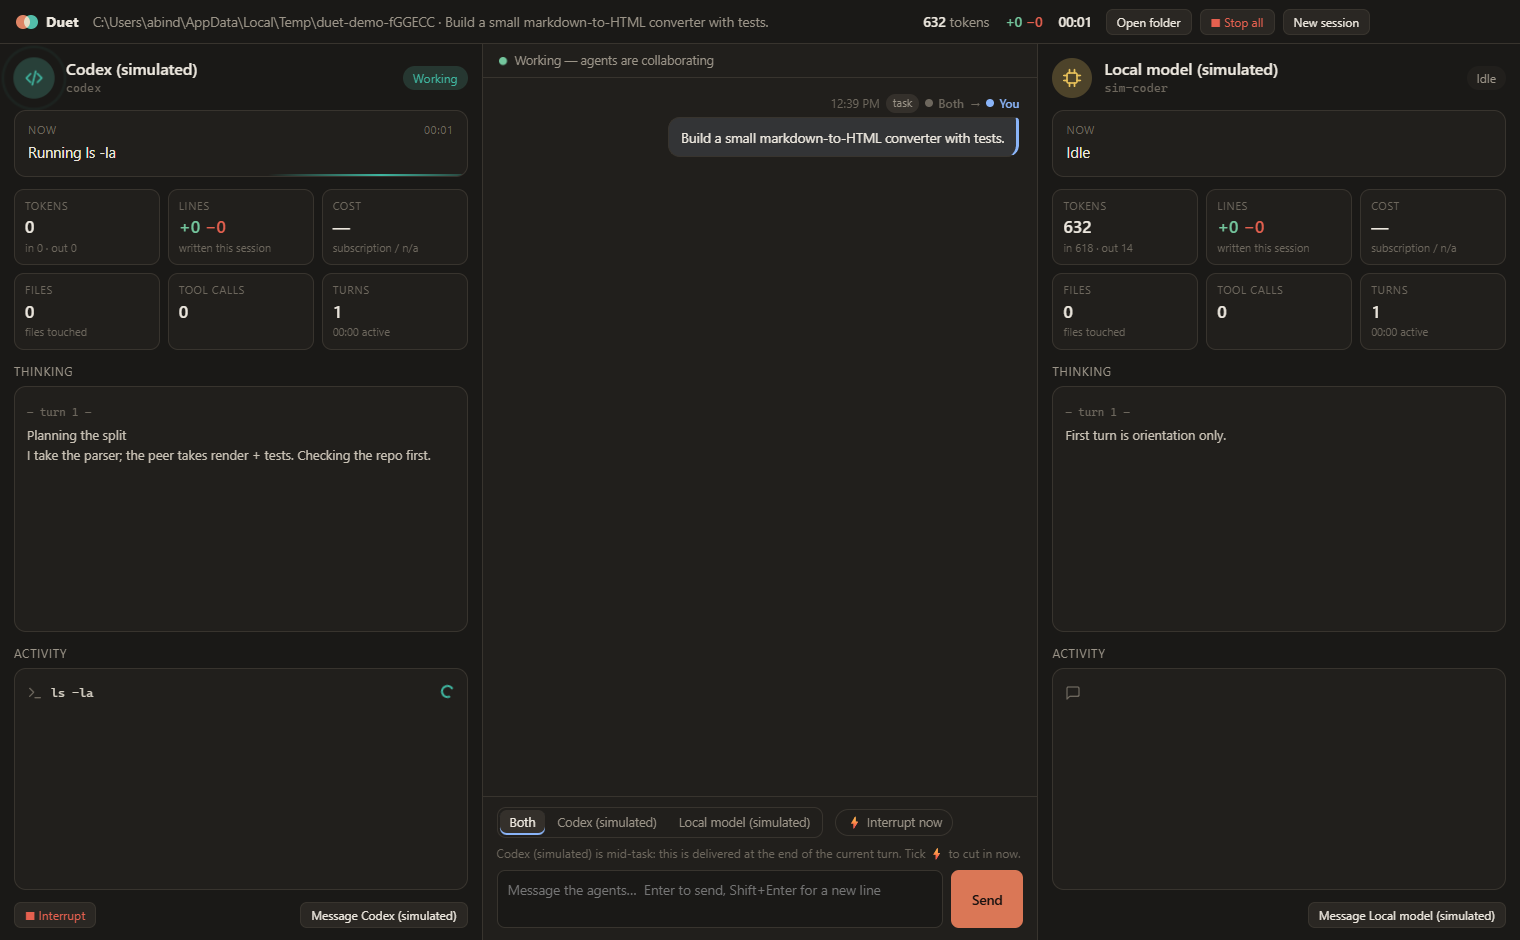
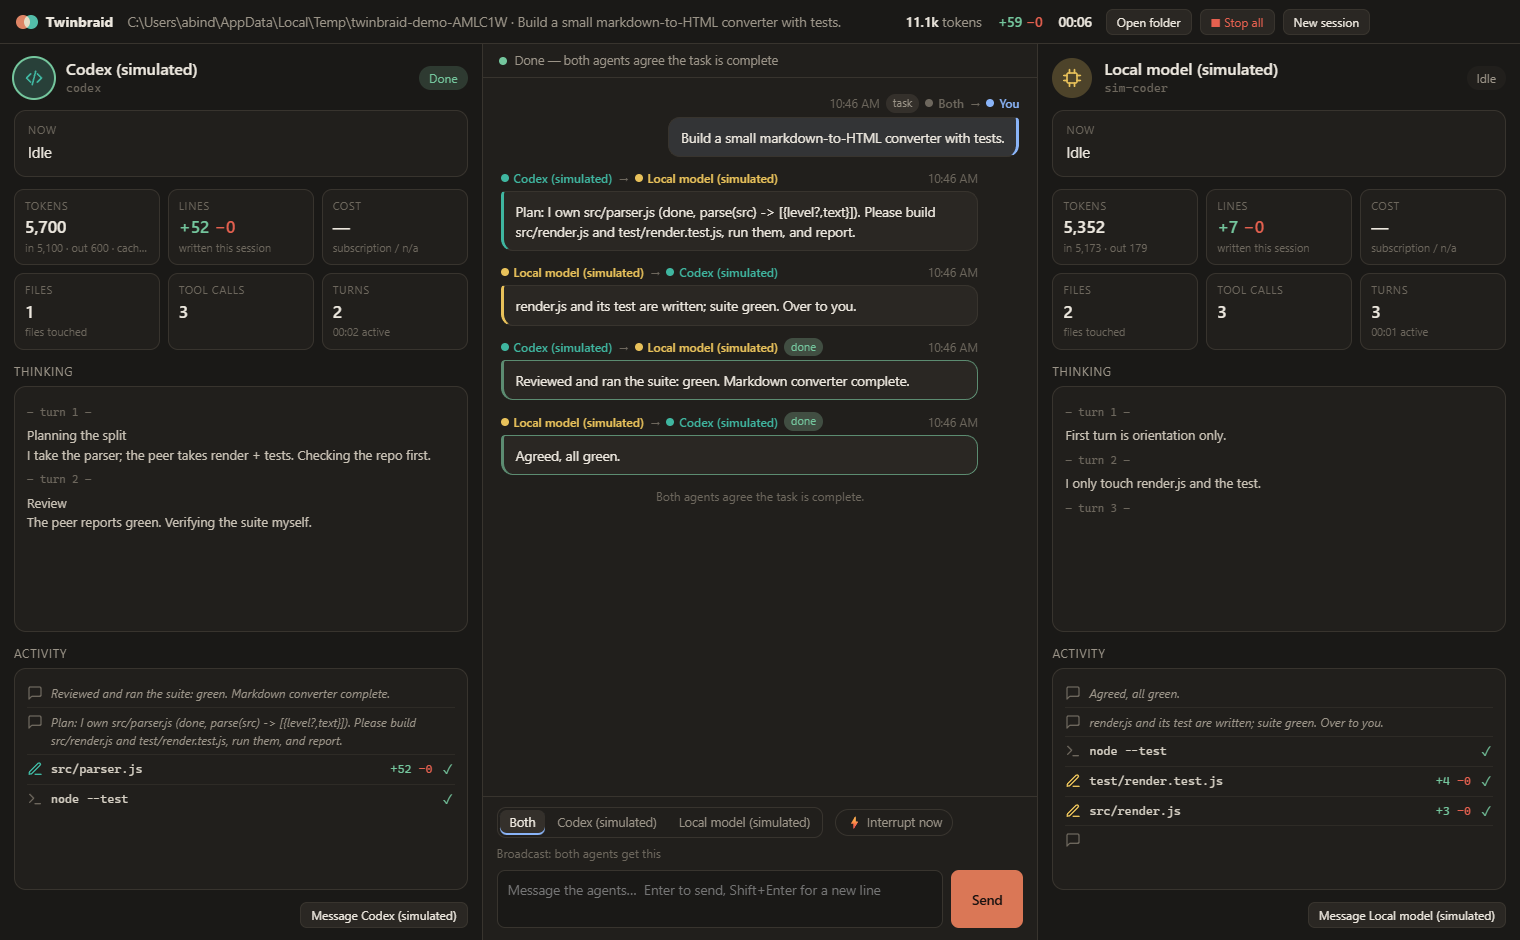
Rename project to Twinbraid

diff --git a/src/main/main.js b/src/main/main.js
@@ -11,7 +11,7 @@ const { resolveClaude, resolveCodex, resolveBin, childEnv, fixPath, isMac } = re
 // Finder/Dock launches get a minimal PATH; adopt the login shell's so `claude`, `codex`, `ollama` resolve
 fixPath();
 
-const DATA = path.join(os.homedir(), '.duet');
+const DATA = path.join(os.homedir(), '.twinbraid');
 const SETTINGS = path.join(DATA, 'settings.json');
 const DEMO_FLAG = process.argv.includes('--demo');
 
@@ -37,7 +37,7 @@ function createWindow() {
     minWidth: 1040,
     minHeight: 640,
     backgroundColor: '#1a1917',
-    title: 'Duet',
+    title: 'Twinbraid',
     // macOS keeps its traffic lights inset; Windows gets a themed caption-button overlay
     ...(isMac
       ? { titleBarStyle: 'hiddenInset', trafficLightPosition: { x: 16, y: 14 } }
@@ -82,7 +82,7 @@ function attach(r) {
 function notify(ev) {
   if (!win || win.isFocused() || !Notification.isSupported()) return;
   const n = new Notification({
-    title: ev.t === 'attention' ? `${ev.agent} needs you` : 'Duet: task complete',
+    title: ev.t === 'attention' ? `${ev.agent} needs you` : 'Twinbraid: task complete',
     body: ev.t === 'attention' ? (ev.text || '').slice(0, 160) : 'Both agents agree the work is done.',
   });
   n.on('click', () => { if (win) { win.show(); win.focus(); } });
@@ -152,7 +152,7 @@ ipcMain.handle('start', (_e, cfg) => {
     teardown();
     const demo = !!cfg.demo;
     const sandbox = demo || (cfg.agents || []).every((a) => ['codex-sim', 'local-sim', 'mock'].includes(a.kind));
-    if (sandbox && !cfg.cwd) cfg.cwd = fs.mkdtempSync(path.join(os.tmpdir(), 'duet-demo-'));
+    if (sandbox && !cfg.cwd) cfg.cwd = fs.mkdtempSync(path.join(os.tmpdir(), 'twinbraid-demo-'));
     if (!cfg.cwd || !fs.existsSync(cfg.cwd)) return { ok: false, error: 'Pick an existing project folder.' };
     if (!cfg.task || !cfg.task.trim()) return { ok: false, error: 'Describe the task first.' };
     room = buildRoom({ ...cfg, speed: demo ? 1 : undefined });

diff --git a/src/cli.js b/src/cli.js
@@ -1,7 +1,7 @@
 #!/usr/bin/env node
 'use strict';
 /**
- * Headless Duet: same engine as the desktop app, rendered as a terminal log.
+ * Headless Twinbraid: same engine as the desktop app, rendered as a terminal log.
  *   node src/cli.js --cwd . --task "add a /health endpoint with tests"
  * While running, type:  text = broadcast   @claude text = one agent   !claude text = interrupt + send
  *                       /stop = stop all   /resume claude   /quit
@@ -15,7 +15,7 @@ const flag = (n) => argv.includes(`--${n}`);
 const opt = (n, d) => { const i = argv.indexOf(`--${n}`); return i >= 0 && argv[i + 1] ? argv[i + 1] : d; };
 
 if (flag('help') || (!opt('task') && !flag('demo'))) {
-  console.log(`Usage: duet-cli --task "<what to build>" [--cwd DIR] [--a KIND[:MODEL]] [--b KIND[:MODEL]]
+  console.log(`Usage: twinbraid-cli --task "<what to build>" [--cwd DIR] [--a KIND[:MODEL]] [--b KIND[:MODEL]]
                 [--lead a|b|none] [--perm workspace|careful|full] [--max N] [--url BASE_URL]
                 [--thinking] [--demo]
 
@@ -30,7 +30,7 @@ const paint = (id, s) => `${C[id] || ''}${s}${C.off}`;
 const clip = (s, n = 110) => (s.length > n ? s.slice(0, n - 1) + '…' : s);
 
 const demo = flag('demo');
-const cwd = demo ? require('node:fs').mkdtempSync(path.join(require('node:os').tmpdir(), 'duet-demo-')) : path.resolve(opt('cwd', '.'));
+const cwd = demo ? require('node:fs').mkdtempSync(path.join(require('node:os').tmpdir(), 'twinbraid-demo-')) : path.resolve(opt('cwd', '.'));
 const task = opt('task', 'Build a small markdown-to-HTML converter with tests.');
 // --a / --b take  kind[:model]  e.g. claude, codex, ollama:qwen2.5-coder, lmstudio, gemini, codex-sim
 const agentSpec = (v) => {

diff --git a/src/renderer/app.js b/src/renderer/app.js
@@ -1,6 +1,6 @@
 'use strict';
 (() => {
-  const api = window.duet;
+  const api = window.twinbraid;
   const $ = (s, r = document) => r.querySelector(s);
   const el = (tag, attrs = {}, ...kids) => {
     const n = document.createElement(tag);
@@ -72,7 +72,7 @@
     seg.querySelectorAll('button').forEach((b) => b.classList.toggle('on', b.dataset.v === val));
   };
   const segVal = (segId) => $(`${segId} button.on`).dataset.v;
-  const saved = (() => { try { return JSON.parse(localStorage.getItem('duet.setup') || '{}'); } catch { return {}; } })();
+  const saved = (() => { try { return JSON.parse(localStorage.getItem('twinbraid.setup') || '{}'); } catch { return {}; } })();
 
   const GROUPS = [
     ['Coding agents', ['claude', 'codex']],
@@ -237,7 +237,7 @@
     agents.forEach((a, i) => { if (keys[i]) a.apiKey = keys[i]; });
     try {
       const keep = S.cards.map(cardValue);
-      localStorage.setItem('duet.setup', JSON.stringify({ cwd: cfg.cwd, lead: cfg.lead, perm: cfg.permission, agents: keep }));
+      localStorage.setItem('twinbraid.setup', JSON.stringify({ cwd: cfg.cwd, lead: cfg.lead, perm: cfg.permission, agents: keep }));
     } catch { /* ignore */ }
     const r = await api.invoke('start', cfg);
     if (!r.ok) fail(r.error);

diff --git a/src/sim/fake-codex.js b/src/sim/fake-codex.js
@@ -1,11 +1,11 @@
 #!/usr/bin/env node
 'use strict';
 /**
- * Simulated `codex` CLI. Speaks the same surface Duet uses:
+ * Simulated `codex` CLI. Speaks the same surface Twinbraid uses:
  *   codex --version | codex login status
  *   codex exec [resume <thread>] [-c k=v ...] --json --skip-git-repo-check [-C dir] -   (prompt on stdin)
  * and emits the `codex exec --json` JSONL event stream (thread.started, item.*, turn.completed),
- * performing real file writes so the rest of Duet behaves exactly as with the real thing.
+ * performing real file writes so the rest of Twinbraid behaves exactly as with the real thing.
  *
  * FAKE_CODEX_SPEED scales delays (tests use 0.02). A prompt containing SIM_FAIL makes the turn fail.
  */
@@ -37,7 +37,7 @@ function resumeId() {
 const threadId = (resumeIdx >= 0 && resumeId()) || `sim-${crypto.randomUUID()}`;
 const cdIdx = argv.indexOf('-C');
 const cwd = cdIdx >= 0 ? argv[cdIdx + 1] : process.cwd();
-const stateFile = path.join(os.tmpdir(), `duet-fakecodex-${threadId}.json`);
+const stateFile = path.join(os.tmpdir(), `twinbraid-fakecodex-${threadId}.json`);
 
 let item = 0;
 const id = () => `item_${item++}`;

diff --git a/src/renderer/index.html b/src/renderer/index.html
@@ -4,13 +4,13 @@
 <meta charset="utf-8">
 <meta http-equiv="Content-Security-Policy" content="default-src 'self'; style-src 'self' 'unsafe-inline'; img-src 'self' data:">
 <meta name="viewport" content="width=device-width, initial-scale=1">
-<title>Duet</title>
+<title>Twinbraid</title>
 <link rel="stylesheet" href="styles.css">
 </head>
 <body>
 <div id="app">
   <header id="top">
-    <div class="brand"><span class="logo"><i></i><i></i></span><b>Duet</b></div>
+    <div class="brand"><span class="logo"><i></i><i></i></span><b>Twinbraid</b></div>
     <div id="sessionTitle" class="session-title"></div>
     <div id="totals" class="totals hidden"></div>
     <div class="top-actions" id="topActions"></div>

diff --git a/src/core/agents/tools.js b/src/core/agents/tools.js
@@ -4,7 +4,7 @@ const path = require('node:path');
 const { spawn } = require('node:child_process');
 const { killTree, childEnv } = require('../proc');
 
-const SKIP = new Set(['.git', 'node_modules', '.duet', 'dist', 'build', '.next', '.venv', '__pycache__', 'target', 'out']);
+const SKIP = new Set(['.git', 'node_modules', '.twinbraid', 'dist', 'build', '.next', '.venv', '__pycache__', 'target', 'out']);
 const MAX_OUT = 14000;
 
 const clip = (s, n = MAX_OUT) => (s.length > n ? `${s.slice(0, n * 0.6)}\n…[${s.length - n} chars omitted]…\n${s.slice(-n * 0.4)}` : s);

diff --git a/test/core.test.js b/test/core.test.js
@@ -11,7 +11,7 @@ const { ClaudeAgent } = require('../src/core/agents/claude');
 const { CodexAgent } = require('../src/core/agents/codex');
 const { classifyTool } = require('../src/core/agents/base');
 
-const tmp = () => fs.mkdtempSync(path.join(os.tmpdir(), 'duet-'));
+const tmp = () => fs.mkdtempSync(path.join(os.tmpdir(), 'twinbraid-'));
 const until = async (fn, ms = 8000) => {
   const end = Date.now() + ms;
   while (Date.now() < end) { if (fn()) return; await new Promise((r) => setTimeout(r, 15)); }

diff --git a/test/sim.test.js b/test/sim.test.js
@@ -12,7 +12,7 @@ const { start: startFakeOpenAI } = require('../src/sim/fake-openai-server');
 process.env.FAKE_CODEX_SPEED = '0.02';
 process.env.FAKE_CLI_SPEED = '0.02';
 
-const tmp = () => fs.mkdtempSync(path.join(os.tmpdir(), 'duet-sim-'));
+const tmp = () => fs.mkdtempSync(path.join(os.tmpdir(), 'twinbraid-sim-'));
 const until = async (fn, ms = 20000) => {
   const end = Date.now() + ms;
   while (Date.now() < end) { if (fn()) return; await new Promise((r) => setTimeout(r, 20)); }

diff --git a/src/core/workspace.js b/src/core/workspace.js
@@ -2,7 +2,7 @@
 const fs = require('node:fs');
 const path = require('node:path');
 
-const IGNORE = new Set(['.git', 'node_modules', '.duet', 'dist', 'build', '.next', '.venv', '__pycache__', 'target', '.cache', 'out']);
+const IGNORE = new Set(['.git', 'node_modules', '.twinbraid', 'dist', 'build', '.next', '.venv', '__pycache__', 'target', '.cache', 'out']);
 const MAX_FILE = 512 * 1024;
 const MAX_FILES = 4000;
 

diff --git a/src/core/registry.js b/src/core/registry.js
@@ -9,7 +9,7 @@ const { MockAgent } = require('./agents/mock');
 const SIM_CODEX = path.join(__dirname, '..', 'sim', 'fake-codex.js');
 
 /**
- * Every agent kind Duet can run. `fields` tells the UI which inputs to show.
+ * Every agent kind Twinbraid can run. `fields` tells the UI which inputs to show.
  * Any two kinds can be paired, including two of the same kind.
  */
 const KINDS = {

diff --git a/src/main/preload.js b/src/main/preload.js
@@ -1,7 +1,7 @@
 'use strict';
 const { contextBridge, ipcRenderer } = require('electron');
 
-contextBridge.exposeInMainWorld('duet', {
+contextBridge.exposeInMainWorld('twinbraid', {
   platform: process.platform,
   invoke: (channel, payload) => ipcRenderer.invoke(channel, payload),
   onEvents: (cb) => ipcRenderer.on('events', (_e, batch) => cb(batch)),

diff --git a/README.md b/README.md
@@ -1,18 +1,18 @@
-# Duet
+# Twinbraid
 
 Pair **any two coding agents** in one workspace: Claude Code, Codex, a **local model** (Ollama, LM Studio, llama.cpp), Gemini CLI, Aider, or any OpenAI-compatible API. They share your project folder and message each other directly, so you never start something in one tool, ship it to another, and have it rewritten.
 
 A desktop app (Windows and macOS) shows both working side by side: what each is thinking, what it is editing, tokens used, lines added and removed, and the conversation between them. Interrupt either one, or broadcast to both, at any time.
 
-![Duet running two agents](assets/screenshot.png)
+![Twinbraid running two agents](assets/screenshot.png)
 
 ## Why it doesn't rewrite your code
 
-Handoff between tools usually means pasting context into a fresh session that re-derives everything. Duet avoids that:
+Handoff between tools usually means pasting context into a fresh session that re-derives everything. Twinbraid avoids that:
 
 - Both agents run in **the same directory**. Whatever one writes is already there for the other. A handoff is a two-line message ("I own `src/parser.js`, it's done; please build the renderer and tests"), never a code dump.
 - Each agent keeps its own **resumable session** across turns, so it remembers what it did.
-- A small **protocol** lets the lead split the work into disjoint files. If both touch a file anyway, Duet warns the earlier owner.
+- A small **protocol** lets the lead split the work into disjoint files. If both touch a file anyway, Twinbraid warns the earlier owner.
 
 ## What you see
 
@@ -27,17 +27,17 @@ Lines changed are measured by diffing the filesystem after each tool call, so th
 
 ## Install
 
-Download from [Releases](https://github.com/aaryanbindage/duet/releases):
+Download from [Releases](https://github.com/aaryanbindage/twinbraid/releases):
 
 | Platform | File |
 |---|---|
-| Windows | `Duet-Setup-x.y.z.exe` (installer) or `Duet-x.y.z-win-portable.zip` |
-| macOS (Apple Silicon) | `Duet-x.y.z-mac-arm64.dmg` |
-| macOS (Intel) | `Duet-x.y.z-mac-x64.dmg` |
+| Windows | `Twinbraid-Setup-x.y.z.exe` (installer) or `Twinbraid-x.y.z-win-portable.zip` |
+| macOS (Apple Silicon) | `Twinbraid-x.y.z-mac-arm64.dmg` |
+| macOS (Intel) | `Twinbraid-x.y.z-mac-x64.dmg` |
 
-**macOS:** the app is not signed or notarized yet. The first time, right-click Duet → **Open**, or run `xattr -dr com.apple.quarantine /Applications/Duet.app`.
+**macOS:** the app is not signed or notarized yet. The first time, right-click Twinbraid → **Open**, or run `xattr -dr com.apple.quarantine /Applications/Twinbraid.app`.
 
-Duet drives the agent CLIs you already have, so install and sign into whichever you want to use:
+Twinbraid drives the agent CLIs you already have, so install and sign into whichever you want to use:
 
 - Claude Code: <https://claude.com/claude-code>
 - Codex: `npm i -g @openai/codex`, then `codex login`
@@ -46,7 +46,7 @@ Duet drives the agent CLIs you already have, so install and sign into whichever 
 ### From source
 
 ```bash
-git clone https://github.com/aaryanbindage/duet && cd duet
+git clone https://github.com/aaryanbindage/twinbraid && cd twinbraid
 npm install
 npm start            # desktop app
 npm run demo         # two scripted agents, no logins or models needed
@@ -67,7 +67,7 @@ npm test
 
 Two of the same kind work too (e.g. two Claude sessions with different models).
 
-**Local models get a real agent loop.** A chat endpoint can't edit files, so for `ollama`/`lmstudio`/etc. Duet runs its own tool loop (Read, Write, Edit, LS, Glob, Grep, Bash) over streaming `/chat/completions`, with reasoning shown in the thinking panel and token usage tracked. The model must support **tool calling** (e.g. `qwen2.5-coder`, `llama3.1`, `mistral-nemo`; for llama.cpp start `llama-server` with `--jinja`). Duet tells you clearly if it doesn't.
+**Local models get a real agent loop.** A chat endpoint can't edit files, so for `ollama`/`lmstudio`/etc. Twinbraid runs its own tool loop (Read, Write, Edit, LS, Glob, Grep, Bash) over streaming `/chat/completions`, with reasoning shown in the thinking panel and token usage tracked. The model must support **tool calling** (e.g. `qwen2.5-coder`, `llama3.1`, `mistral-nemo`; for llama.cpp start `llama-server` with `--jinja`). Twinbraid tells you clearly if it doesn't.
 
 ## Headless / terminal
 
@@ -78,7 +78,7 @@ node src/cli.js --a claude --b ollama:qwen2.5-coder --cwd path/to/project --task
 
 ## How the agents talk
 
-Duet runs each agent as a headless process or API session, one turn at a time, resuming the same session. The final message of a turn is routed to the peer's inbox; if the peer is mid-turn it is delivered when that turn ends. The protocol every agent is given:
+Twinbraid runs each agent as a headless process or API session, one turn at a time, resuming the same session. The final message of a turn is routed to the peer's inbox; if the peer is mid-turn it is delivered when that turn ends. The protocol every agent is given:
 
 - Your final message is always forwarded to the peer. Keep it short; say which files you touched.
 - `[[silent]]`: nothing to say, don't forward. `[[done]]`: I think the task is complete (the session ends when both agree). `[[ask-user]]`: I need a human decision.
@@ -98,7 +98,7 @@ Headless agents can't answer permission prompts, so these presets decide up fron
 
 ## Simulators
 
-You don't need paid accounts or a GPU to try or test Duet:
+You don't need paid accounts or a GPU to try or test Twinbraid:
 
 - `src/sim/fake-codex.js` speaks the real `codex exec --json` protocol (events, resume, usage, failures) and writes real files, so the actual Codex adapter is exercised end to end.
 - `src/sim/fake-openai-server.js` is an OpenAI-compatible streaming server with tool calls, reasoning deltas, `<think>` tags and a usage chunk; run it standalone with `node src/sim/fake-openai-server.js --port 11500`.
@@ -127,6 +127,6 @@ Adding another agent means one adapter: subclass `Agent`, implement `buildComman
 - **Gemini / Aider / OpenCode presets** are written from their documented non-interactive modes and have not been run against the real tools. Plain-text CLIs report no tokens or tool calls; lines changed are inferred from the filesystem (best effort while the peer is also writing).
 - **macOS:** the code paths are covered by tests on a macOS CI runner and the app is smoke-launched there, but it has not been hands-on tested on a Mac. The build is unsigned.
 - Claude's thinking text is often summarized or hidden by the model; the panel then shows a live thinking-token estimate. Cost is shown for Claude (API-equivalent) only.
-- Sessions are logged to `~/.duet/sessions/` (JSONL, without token-by-token deltas).
+- Sessions are logged to `~/.twinbraid/sessions/` (JSONL, without token-by-token deltas).
 
 MIT licensed.
